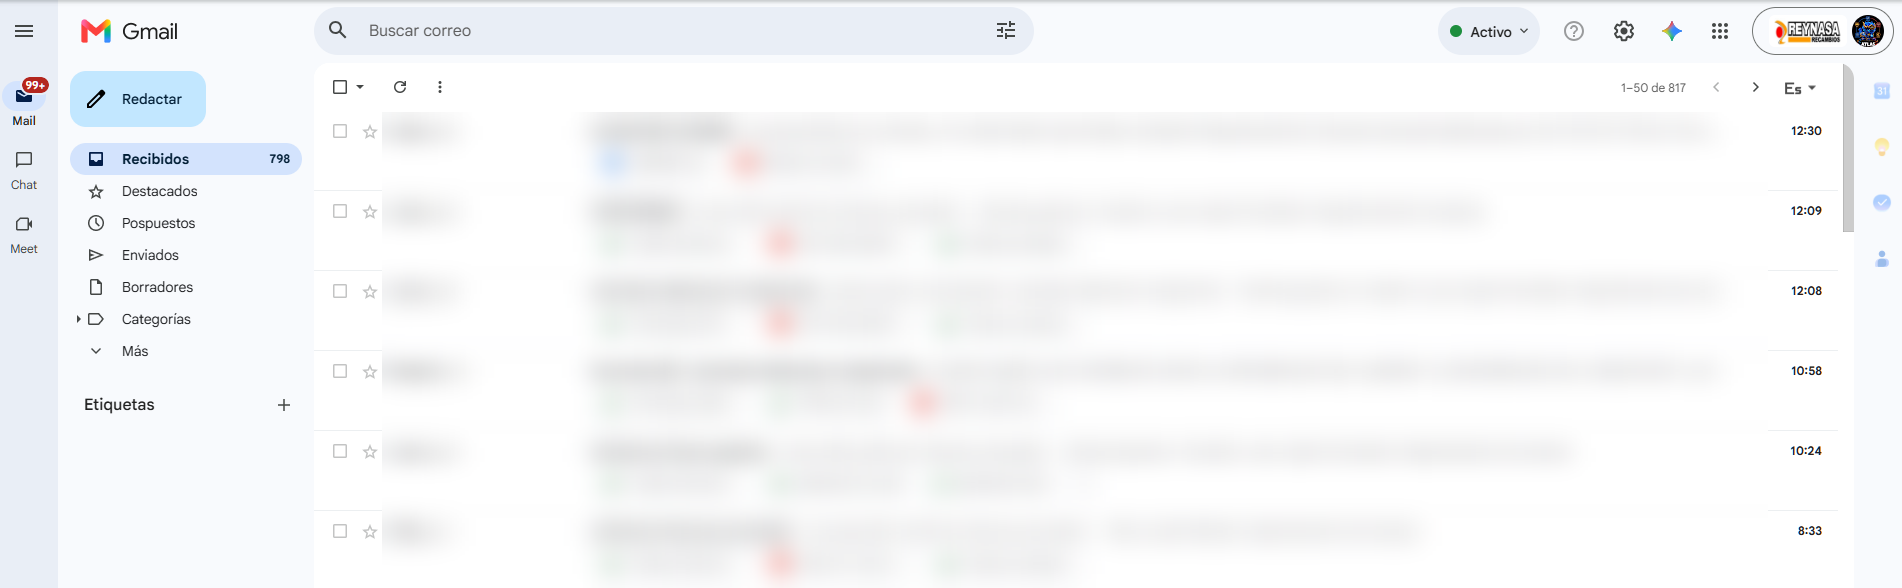
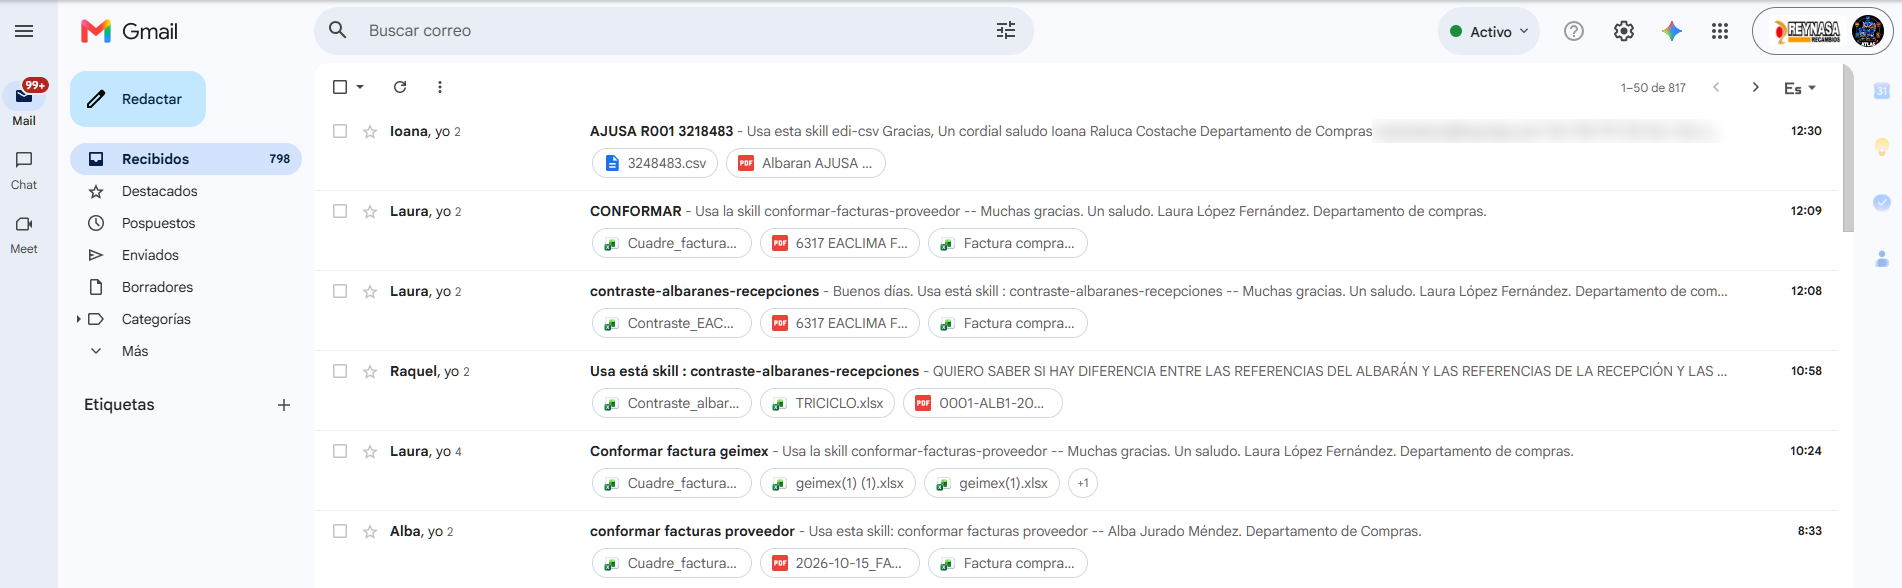
Captura del buzón legible en la web (solo se tapan el correo y el teléfono de la firma)

diff --git a/index.html b/index.html
@@ -243,7 +243,7 @@ html,body{overflow:visible;height:auto;background:#fff}#viewport{position:static
 <div class="buzon"><img src="media/buzon-atlas.png" alt="Bandeja de entrada de ATLAS en Gmail con encargos de Compras y sus respuestas"></div>
 <div class="buzon-notas"><div><b>Le escriben como a un compañero</b>La plantilla le manda el encargo con sus archivos: facturas, albaranes o Excel.</div>
 <div><b>Contesta en el mismo hilo</b>Devuelve el resultado listo. El «yo» de cada hilo es la respuesta de ATLAS.</div>
-<div><b>Una mañana cualquiera</b>En la captura, difuminada por privacidad, seis encargos de Compras del 26/10, de 8:33 a 12:30, todos contestados.</div></div></div></section>
+<div><b>Una mañana cualquiera</b>En la captura, seis encargos de Compras del 26/10, de 8:33 a 12:30, todos contestados.</div></div></div></section>
 <section class="slide"><div class="pad"><div class="eyebrow"><i></i>Lo que ha hecho · del 18 de junio al 26 de octubre</div>
 <h2>De las pruebas <em>a toda la empresa</em></h2>
 <div class="kpis"><div><b>742</b><span>encargos de la plantilla</span></div><div><b>42</b><span>personas se lo han pedido</span></div>
